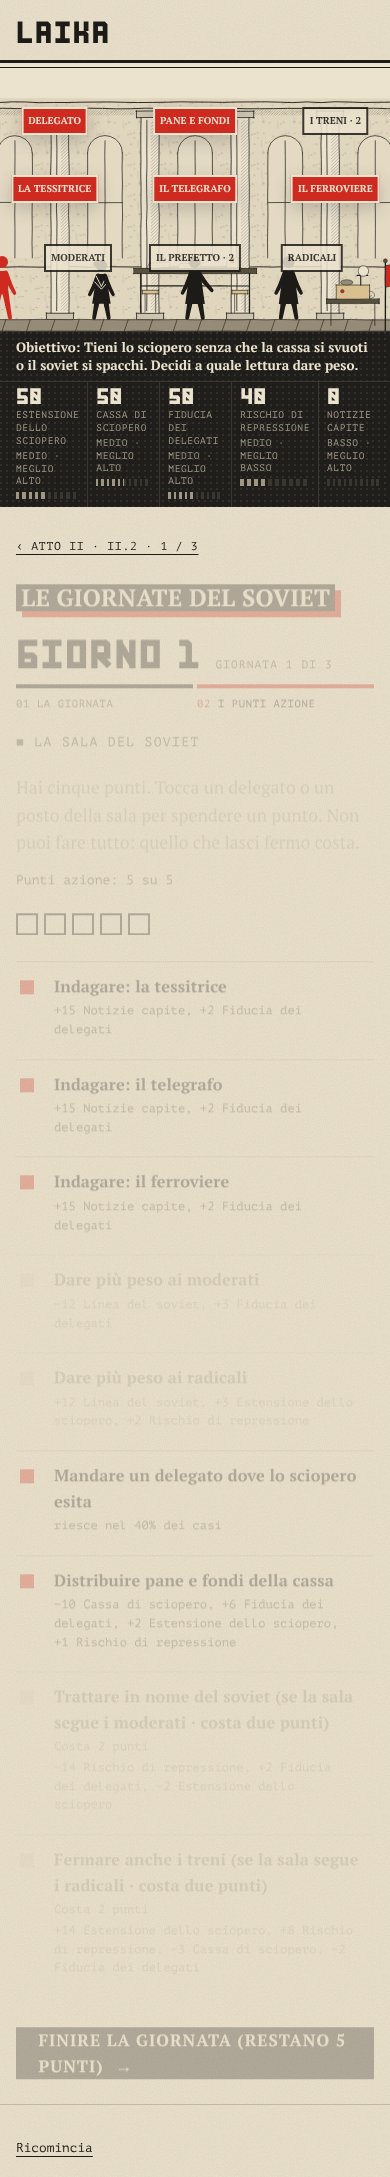
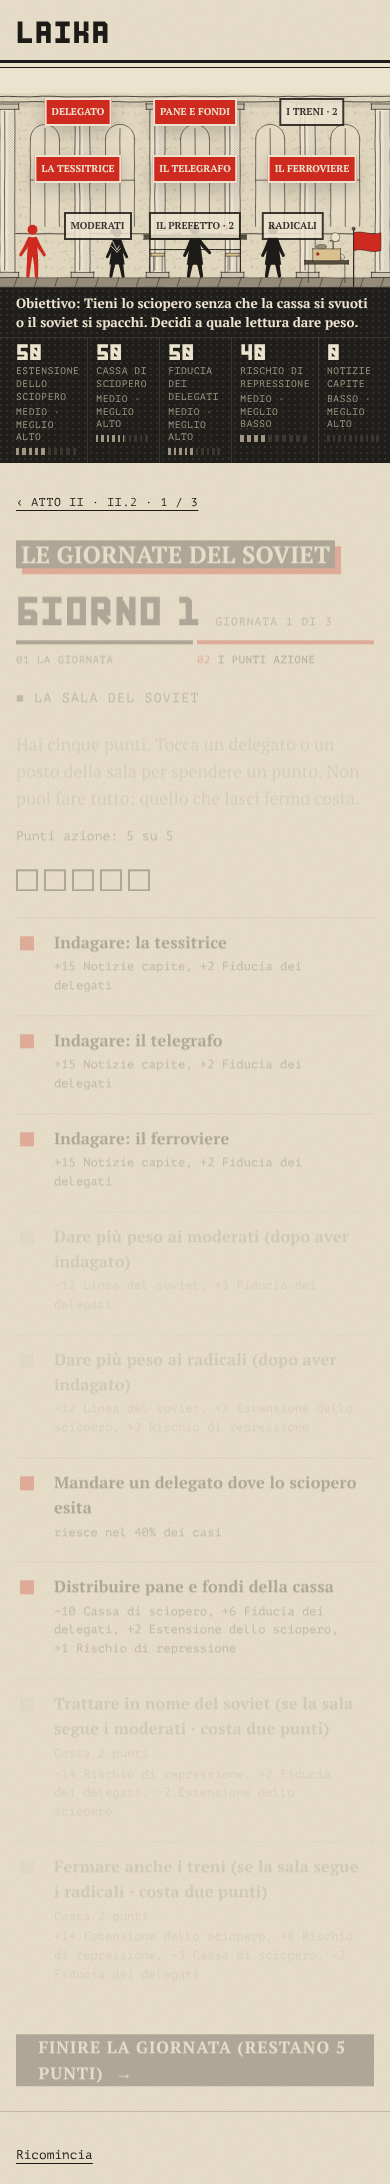
U-soviet: correzioni dopo la prima revisione (flag, esito, STATO, atto-2, date, scena sul telefono)
Claude-Session: https://claude.ai/code/session_01EHWWMfvZheu683XhHNhgZT

diff --git a/tests/laika-soviet.test.js b/tests/laika-soviet.test.js
@@ -14,6 +14,7 @@ const PIANI = {
   moderata: ['indtess', 'peso-moderato', 'tavolo', 'distribuire'],
   radicale: ['indtess', 'peso-radicale', 'treni', 'delegato'],
   mista: ['indtess', 'peso-moderato', 'peso-radicale', 'delegato', 'distribuire'],
+  indaga: ['indtel', 'indferr', 'peso-moderato', 'peso-radicale', 'delegato'],
   corsa: ['delegato', 'delegato', 'delegato', 'delegato', 'delegato'],
   cassa: ['distribuire', 'distribuire', 'distribuire', 'distribuire', 'distribuire']
 };
@@ -49,7 +50,7 @@ const risultati = STRATEGIE.map(st => {
 });
 const di = (...st) => risultati.find(x => x.st.join() === st.join());
 
-if (process.env.LAIKA_RAPPORTO) for (const nome of ['moderata', 'radicale', 'mista', 'corsa', 'cassa']) {
+if (process.env.LAIKA_RAPPORTO) for (const nome of ['moderata', 'radicale', 'mista', 'indaga', 'corsa', 'cassa']) {
   const x = di(nome, nome, nome);
   console.log(nome.padEnd(10), [x.sciopero, x.fondi, x.fiducia, x.repressione, x.linea, x.crisi].map(v => String(Math.round(v)).padStart(5)).join(''), x.trattato ? 'tratta' : '');
 }
@@ -92,10 +93,16 @@ test('Il soviet: la scelta della lettura cambia le azioni dei giorni dopo', () =
   // Le card del giorno dopo raccontano la linea scelta.
   const turno = ep.turns[s.currentAct.game.turn], lette = s.currentAct.game.cardList.map(i => turno.cards[i].title);
   assert.ok(lette.includes('La sala ha seguito i moderati'), 'la card dice che la sala ha seguito i moderati: ' + lette.join(' | '));
+  assert.ok(!lette.includes('La sala ha seguito i radicali'), 'la card dei radicali non si legge se ha vinto la linea dei moderati');
 });
 test('Il soviet: ogni azione serve, i rischi sono scritti prima, le etichette non si sovrappongono', () => {
   const nelPiano = new Set(Object.values(PIANI).flat());
-  for (const o of ep.turns[0].market.offers) if (o.id !== 'indferr' && o.id !== 'indtel') assert.ok(nelPiano.has(o.id), o.id + ': nessun piano la usa');
+  for (const o of ep.turns[0].market.offers) assert.ok(nelPiano.has(o.id), o.id + ': nessun piano la usa');
+  // I treni fermi allargano lo sciopero e alzano la repressione: nessuna linea è gratis.
+  const treni = ep.turns[0].market.offers.find(o => o.id === 'treni'), eff = (o, id) => o.effects.find(x => x.id === id)?.delta;
+  assert.ok(eff(treni, 'sciopero') > 0 && eff(treni, 'repressione') > 0, 'fermare i treni allarga lo sciopero e alza la repressione');
+  const tavolo = ep.turns[0].market.offers.find(o => o.id === 'tavolo');
+  assert.ok(eff(tavolo, 'repressione') < 0 && tavolo.effects.some(x => x.id === 'tratta_prefetto'), 'trattare abbassa la repressione e segna il flag');
   for (const turn of ep.turns) assert.equal(turn.market.points, 5);
   const d = ep.turns[0].market.offers.find(o => o.id === 'delegato');
   assert.ok(d.chance.base > 0 && d.chance.base < 1, 'il delegato ha una probabilità scritta');

diff --git a/docs/laika/STATO.md b/docs/laika/STATO.md
@@ -51,13 +51,13 @@ Nessuna è ancora stata provata e approvata dal docente dal telefono.
 | I.1 `servitu` | La settimana del servo: otto anni dal 1740 al 1861, cinque generazioni, migliorie, fiera, chi bussa, verifica V1 | Risolti il 5 novembre 2026 (U-servitu): previsione ed esito del grano coerenti, nessun numero negativo, tabellone più corto sul telefono, disegni non più sospesi nel vuoto | `tests/browser-i1.cjs`; [revisione del 4 novembre](revisioni/2026-11-04-allievo-atto-I.md) |
 | I.2 `mir` | Otto assemblee, quattro gruppi | È un questionario con barre: niente da gestire fra una richiesta e l'altra | revisione del 4 novembre §5 |
 | I.3 `citta` | In città, il salario (otto settimane), il razzo, la corte, i tre volantini, verifica V2, confronto di fine atto | Risolti il 5 novembre 2026 (U-citta): il salario ora mette alle strette e c'è il confronto di fine atto | revisione §5 |
-| Atto II (II.1–II.4) | Petizione e domenica di sangue (II.1), giornate del soviet a punti azione e V3 (II.2), che cosa concede lo zar (II.3), Stolypin, V4 e «Cosa ti devi ricordare» (II.4) | giochi di petizione, concessioni e Stolypin; aneddoti dei libri (diario di Nicola, il granduca, Baletta); le notizie del soviet non servono a niente; confronto di fine atto | revisione §3 e §5 |
+| Atto II (II.1–II.4) | Petizione e domenica di sangue (II.1), giornate del soviet a punti azione e V3 (II.2), che cosa concede lo zar (II.3), Stolypin, V4 e «Cosa ti devi ricordare» (II.4) | giochi di petizione, concessioni e Stolypin; aneddoti dei libri (diario di Nicola, il granduca, Baletta); le notizie del soviet non servivano a niente (risolto il 5 novembre 2026: la scelta della lettura apre azioni nei giorni dopo); confronto di fine atto | revisione §3 e §5 |
 | III.1 `pane-guerra` | In ginocchio, il grano e i treni come partita di sole decisioni, gioielli e pane, la fine dello zar, verifica V5 | **Da rifare**: il gioco approvato (quanto serve e quanto c'è, prime code) non c'è; aneddoti (Fabergé, Kšesinskaja, Rodzjanko) | revisione §3 |
 | III.2 `otto-giorni` | Giornata della donna, la coda a punti azione, il soldato a punti azione, il treno, verifica V6, confronto | **Da rifare**: la coda vera (figure che lasciano la fila); aneddoti del treno (baffi, Frederiks); scene del treno nella neve e del Palazzo di Tauride da comporre con disegni che ci sono già ([PIANO-KIT](PIANO-KIT.md)); oggi treno, fine dello zar in famiglia e confronto sono senza scena invece di riusare scene sbagliate | revisione §3 e §4 |
 
 ## Controllo automatico delle unità (4 novembre 2026)
 
-Uscita di `LAIKA_RAPPORTO=1 node tests/unita-ludiche.test.js` (regole di METODO §7, G3a). Diventa vincolante per ogni unità quando il suo incarico è «fatto». Dal 4 novembre controlla anche lo standard didattico (D-040): a mir, petizione e concessioni manca anche la verifica; a mir, petizione, soviet, concessioni, pane e guerra e otto giorni manca «Cosa ti devi ricordare».
+Uscita di `LAIKA_RAPPORTO=1 node tests/unita-ludiche.test.js` (regole di METODO §7, G3a). Diventa vincolante per ogni unità quando il suo incarico è «fatto». Dal 4 novembre controlla anche lo standard didattico (D-040): a petizione e concessioni manca anche la verifica e «Cosa ti devi ricordare».
 
 | Unità | Che cosa manca |
 |---|---|
@@ -65,7 +65,6 @@ Uscita di `LAIKA_RAPPORTO=1 node tests/unita-ludiche.test.js` (regole di METODO 
 | I.2 `mir` | solo richieste a scelta multipla, niente da distribuire o spendere; nessun contenuto documentato |
 | I.3 `citta` | niente (il test G3 del salario prova tutte le mosse fisse) |
 | II.1 `petizione` | nessun gioco; un modulo con caselle numeriche; nessuna fonte registrata |
-| II.2 `soviet` | nessuna fonte registrata; nessun contenuto documentato (le notizie che non contano le vede G4) |
 | II.3 `concessioni` | nessun gioco; nessuna fonte registrata; nessuna scena propria |
 | II.4 `stolypin` | nessun gioco; nessuna fonte registrata; scene prese dal mir e dal soviet |
 | III.1 `pane-guerra` | solo richieste a scelta multipla; nessuna fonte registrata |
@@ -77,7 +76,7 @@ Uscita di `LAIKA_RAPPORTO=1 node tests/unita-ludiche.test.js` (regole di METODO 
 - Pagina dell'atto, dell'unità e chiusura (#25); ogni unità si apre dalla pagina del suo atto (#37), anche in un atto diverso da quello della partita salvata.
 - Finita l'ultima unità di un atto, la chiusura mostra «Fine dell'atto» e porta alla pagina dell'atto successivo.
 - Corretti nella PR #38: chiusura dell'atto, muro di indicatori, pulsanti delle giornate, errori di lingua. Corretti nella PR R3: didascalie di altre scene sotto gli episodi che riusano una scena, didascalia generica sotto le verifiche, giornate a punti azione chiuse senza vedere i punti rimasti, numeri negativi nella previsione del grano.
-- Restano: etichette sovrapposte sulla scena (sala del soviet), pagine lunghe sul telefono (tabellone di I.1), la home a 626 KB contro i 500 del budget, «Riprendi» nella home che non compare se si è appena entrati in un'unità senza agire.
+- Restano: pagine lunghe sul telefono (tabellone di I.1), la home a 626 KB contro i 500 del budget, «Riprendi» nella home che non compare se si è appena entrati in un'unità senza agire.
 
 ## Verifiche automatiche
 

diff --git a/docs/laika/giochi/soviet.md b/docs/laika/giochi/soviet.md
@@ -10,10 +10,10 @@ Scheda di gioco dell'unità `soviet` (canone: II.2). Versione 2 (costruita) · 5
 
 **Le azioni (un punto, salvo dove scritto):**
 1. **Indagare** una notizia (la tessitrice, il ferroviere, il telegrafo): due letture opposte (il delegato moderato e il delegato radicale), le notizie capite salgono e si sblocca la scelta qui sotto.
-2. **Dare più peso ai moderati** o **ai radicali** (solo dopo aver indagato; una volta ciascuno al giorno): la linea del soviet si sposta di 12 punti. Dare peso a tutte e due la lascia al centro.
+2. **Dare più peso ai moderati** o **ai radicali** (l'etichetta dice «dopo aver indagato»; una volta ciascuno al giorno): la linea del soviet si sposta di 12 punti. Dare peso a tutte e due la lascia al centro.
 3. **Mandare un delegato** dove lo sciopero esita (ripetibile, incerto: la probabilità cresce con le notizie capite).
-4. **Distribuire pane e fondi** della cassa (ripetibile).
-5. **Trattare in nome del soviet** (due punti): si apre solo se la sala segue i moderati (linea 44 o meno); abbassa molto la repressione e mette il flag `tratta_prefetto` che II.3 legge.
+4. **Distribuire pane e fondi** della cassa (ripetibile; solo se in cassa ci sono almeno 10).
+5. **Trattare in nome del soviet** (due punti): si apre solo se la sala segue i moderati (linea 44 o meno); abbassa molto la repressione e mette il flag `tratta_prefetto`. **II.3 non lo legge ancora**: la scheda di II.3 in [atto-2](../atti/atto-2.md) dice che dovrà leggerlo.
 6. **Fermare anche i treni** (due punti): si apre solo se la sala segue i radicali (linea 56 o più); allarga lo sciopero ma alza la repressione.
 
 **Le letture che contano.** La linea resta da un giorno all'altro. Il giorno dopo una card racconta che la sala ha seguito i moderati o i radicali e le azioni a due punti si aprono o si chiudono di conseguenza: la scelta cambia che cosa si può fare nei giorni dopo, non solo i numeri di oggi. Ogni giorno si indaga di nuovo prima di poter dare peso.
@@ -22,7 +22,7 @@ Scheda di gioco dell'unità `soviet` (canone: II.2). Versione 2 (costruita) · 5
 
 **Regola di bilanciamento (G3 di METODO §7), controllata da `tests/laika-soviet.test.js` sul motore vero (cinque piani di giornata, tre giornate, quattro semi).** Nessuna strategia è la migliore su tutti gli indicatori insieme; seguire sempre la lettura dei moderati porta a una repressione bassa e a uno sciopero stretto, seguire sempre quella dei radicali a uno sciopero largo e a una repressione alta (differenze di almeno 10 punti); solo i moderati possono trattare; dare peso a tutte e due non sblocca niente; ogni azione serve in qualche piano; le etichette sulla scena non si sovrappongono.
 
-**Esito.** Nessuna vittoria o sconfitta: un giudizio sullo stato dello sciopero e il riepilogo degli indicatori.
+**Esito.** Nessuna vittoria o sconfitta. Le giornate a punti azione chiudono con il testo fisso dell'episodio (il soviet è un contropotere; dare peso a una lettura apre alcune strade e ne chiude altre) e con gli indicatori. La linea scelta si racconta nelle card del secondo e del terzo giorno («La sala ha seguito i moderati/i radicali»), non in un giudizio finale: i giudizi (`verdicts`) esistono solo nella modalità a posti del motore.
 
 ## Il resto dell'unità
 
@@ -34,7 +34,7 @@ Scheda di gioco dell'unità `soviet` (canone: II.2). Versione 2 (costruita) · 5
 ## Elementi del kit
 
 - **Motore:** `turn_game` a punti azione con offerte `when` sui flag e sui valori delle metriche e un'offerta con `cost` 2; nessuna meccanica nuova (la condizione `when` bastava, K5 non serve).
-- **Scena:** `soviet-sala`: tavolo del comitato, telegrafo e bandiera rossa senza scritte (`soviet-tavolo`, `soviet-telegrafo`, `soviet-bandiera`). Le azioni stanno su tre file (alto, centro, basso) con almeno 0,2 di distanza: nessuna etichetta si sovrappone a un'altra su 390 px.
+- **Scena:** `soviet-sala`: tavolo del comitato, telegrafo e bandiera rossa senza scritte (`soviet-tavolo`, `soviet-telegrafo`, `soviet-bandiera`). Le azioni stanno su tre file (alto, centro, basso) con almeno 0,2 di distanza: nessuna etichetta si sovrappone a un'altra su 390 px, e sul telefono la scena si vede per intero (anche la bandiera). Le giornate non portano date nei titoli: le date del 1905 hanno due calendari e restano a II.3.
 
 ## Dati da riscontrare
 

diff --git a/docs/evidence/U-soviet/README.md b/docs/evidence/U-soviet/README.md
@@ -1,7 +1,11 @@
 # Evidenze di U-soviet (II.2 Il soviet: le letture che contano, 5 novembre 2026)
 
-- `bilanciamento.txt`: uscita di `LAIKA_RAPPORTO=1 node --test tests/laika-soviet.test.js`: sciopero, cassa, fiducia, repressione, linea e crisi dei cinque piani ripetuti per le tre giornate (media su quattro semi). Moderati: sciopero 25, repressione 21, trattano col prefetto; radicali: sciopero 83, repressione 67; dare peso a entrambi lascia la linea a 50.
+- `bilanciamento.txt`: uscita di `LAIKA_RAPPORTO=1 node --test tests/laika-soviet.test.js`: sciopero, cassa, fiducia, repressione, linea e crisi dei cinque piani ripetuti per le tre giornate (media su quattro semi; il piano «indaga» legge tutte le notizie). Moderati: sciopero 25, repressione 21, trattano col prefetto; radicali: sciopero 83, repressione 67; dare peso a entrambi lascia la linea a 50.
 - `03-giorno1-inizio-telefono.png`, `07-giorno2-moderati-telefono.png`, `07-giorno2-radicali-telefono.png`: la sala sul telefono (390x844) con i nove punti su tre file; il secondo giorno, dopo la scelta, «Il prefetto · 2» è aperto per i moderati e «I treni · 2» per i radicali. `soviet-sala.png`: la scena con tavolo, telegrafo e bandiera.
 - Percorso sul telefono (script di prova dell'autore): tre giornate giocate con il piano moderato e con il piano radicale; in ogni momento nove etichette, nessuna sovrapposta e nessuna fuori dalla scena; nessun errore in console.
 - Test: `tests/laika-soviet.test.js` (5 test, pochi secondi; verificato a mano che il test fallisce se «Trattare» non dipende dalla linea), `tests/unita-ludiche.test.js` (l'unità non ha problemi), `tests/units.test.js`, `tests/p1.test.js`.
 - Limiti: `npm run test:browser` completo e WebKit si affidano alla CI. Nessun aneddoto trovato sul soviet del 1905 (MATRICE).
+
+## Revisione indipendente (G4)
+
+- Primo giro (5 novembre 2026): NON PASSA, quattro difetti piccoli: la scheda diceva che II.3 legge il flag `tratta_prefetto` (non lo legge nessuno: ora scritto in `atto-2.md` che dovrà leggerlo); la scheda prometteva un giudizio finale che il motore a mercato non dà (riscritta: la linea si racconta nelle card dei giorni dopo); `STATO.md` e `atto-2.md` avevano righe vecchie e un riquadro sopra testo vecchio (riscritti, la vecchia scheda è in `docs/archivio/ATTO-2-II2-e1-v1-2026-11-05.md`); i titoli dei giorni avevano date senza doppio calendario (tolte). Corrette anche: la bandiera tagliata sul telefono (la scena si vede per intero), «Distribuire» solo con almeno 10 in cassa, le etichette «(dopo aver indagato)», il test più forte (il flag, i treni, la card dei radicali).

diff --git a/docs/laika/atti/atto-2.md b/docs/laika/atti/atto-2.md
@@ -28,15 +28,14 @@ Divisione in quattro unità decisa il 4 novembre 2026 (D-024, D-038). Le schede 
 
 ## II.2 — Il soviet (ottobre 1905) · `soviet`
 
-**II.2-e1 · role_crisis [S] · Il primo soviet**
-- **Scena.** Ottobre 1905: sciopero generale, nasce il soviet di Pietroburgo. Un ferroviere, una delegata tessile e un militante vedono parti diverse; lo studente decide come continuare lo sciopero.
+**II.2-e1 · turn_game [S] · Le giornate del soviet** (riscritta il 5 novembre 2026 come gioco a punti azione, scheda [soviet](../giochi/soviet.md) v2; la scheda precedente, una scelta fra tre ruoli, è in [docs/archivio](../../archivio/ATTO-2-II2-e1-v1-2026-11-05.md))
+- **Scena.** Ottobre 1905: sciopero generale, nasce il soviet di Pietroburgo. Tre giornate da cinque punti azione nella sala a colonne (tavolo del comitato, telegrafo, bandiera rossa senza scritte): si indaga una notizia (due letture, una prudente e una dura), si sceglie a quale dare peso e la scelta apre o chiude azioni nei giorni dopo (trattare in nome del soviet con i moderati, fermare i treni con i radicali).
 - **Sotto la scena.** Che cosa succede quando le persone comuni scoprono di poter fermare un impero incrociando le braccia?
 - **Regia.** Le ciminiere si spengono una a una, i binari si svuotano.
-- **Chi la sviluppa.** Sonnet.
+- **Chi la sviluppa.** Opus (gioco), Sonnet (testi).
+- **Fra le unità.** Il flag `tratta_prefetto` (si è trattato col prefetto) resta nello stato: **II.3 («Che cosa concede lo zar») dovrà leggerlo** per aprire o chiudere un'opzione sulle concessioni; oggi non lo legge nessuno.
 
 **II.2-e1b · narrative [D] · Cosa ti devi ricordare** (aggiunta il 5 novembre 2026, U-soviet): i due obiettivi dell'unità in parole semplici.
-
-**II.2-e1 (gioco, 5 novembre 2026).** Il gioco della sala non è più una scelta fra tre ruoli: sono tre giornate a punti azione (scheda [soviet](../giochi/soviet.md), v2) in cui, dopo aver indagato, si sceglie a quale delle due letture dare peso e la scelta apre o chiude azioni nei giorni dopo.
 
 **II.2-e2 · assessment [V] · Verifica V3.**
 

diff --git a/docs/laika/fonti/MATRICE.md b/docs/laika/fonti/MATRICE.md
@@ -223,7 +223,7 @@ Simulazione, non fatto: le richieste, le persone, le strisce da assegnare, il ra
 
 | Dove | Che cosa si dice | Fonte | Esito |
 |---|---|---|---|
-| A1-03 / card «Che cos'è il soviet», ricorda | Nel 1905 gli oppositori dello zarismo si organizzano in assemblee e consigli di operai, soldati e studenti: i soviet; il soviet di Pietroburgo coordina lo sciopero ed è un contropotere, non un governo; i socialdemocratici, che hanno una cultura di partito, ne prendono presto la maggioranza | Appunti «La Rivoluzione Russa», paragrafo «Nascono i SOVIET» (`references/fonti/appunti/la-rivoluzione-russa.txt`) | Confermato sugli appunti; i nomi dei partiti non sono dati per fatti sul 1905 |
+| A1-03 / card «Che cos'è il soviet», ricorda | Nel 1905 gli oppositori dello zarismo si organizzano in assemblee e consigli di operai, soldati e studenti: i soviet; il soviet di Pietroburgo coordina lo sciopero ed è un contropotere, non un governo; i socialdemocratici, che hanno una cultura di partito, ne prendono presto la maggioranza | Appunti «La Rivoluzione Russa», paragrafo «Nascono i SOVIET» (`references/fonti/appunti/la-rivoluzione-russa.txt`) | Sugli appunti: assemblee e consigli di militari, studenti e operai; contropotere; i socialdemocratici prendono presto la maggioranza. «Coordina lo sciopero» e «non governa» vengono dagli obiettivi del canone (II.2), non dagli appunti |
 | Giornate del soviet / notizie e letture | La tessitrice, il ferroviere, il telegrafo, i due delegati e ogni numero | Nessuna | Simulazione, dichiarata nel testo e nell'`editorial` |
 | Aneddoti sul soviet del 1905 | Cercati nell'atlante degli aneddoti e nei nuovi aneddoti | Nessuna voce sull'ottobre 1905 | **Nessun aneddoto trovato**: non compare (METODO §7) |
 

diff --git a/docs/archivio/ATTO-2-II2-e1-v1-2026-11-05.md b/docs/archivio/ATTO-2-II2-e1-v1-2026-11-05.md
@@ -1,0 +1,9 @@
+> **Archivio, 5 novembre 2026.** Scheda dell'episodio II.2-e1 «Il primo soviet» com'era prima di U-soviet (una scelta fra tre ruoli), sostituita dalla scheda a punti azione in `docs/laika/atti/atto-2.md`. Non vale come istruzione.
+
+## II.2 — Il soviet (ottobre 1905) · `soviet`
+
+**II.2-e1 · role_crisis [S] · Il primo soviet**
+- **Scena.** Ottobre 1905: sciopero generale, nasce il soviet di Pietroburgo. Un ferroviere, una delegata tessile e un militante vedono parti diverse; lo studente decide come continuare lo sciopero.
+- **Sotto la scena.** Che cosa succede quando le persone comuni scoprono di poter fermare un impero incrociando le braccia?
+- **Regia.** Le ciminiere si spengono una a una, i binari si svuotano.
+- **Chi la sviluppa.** Sonnet.
